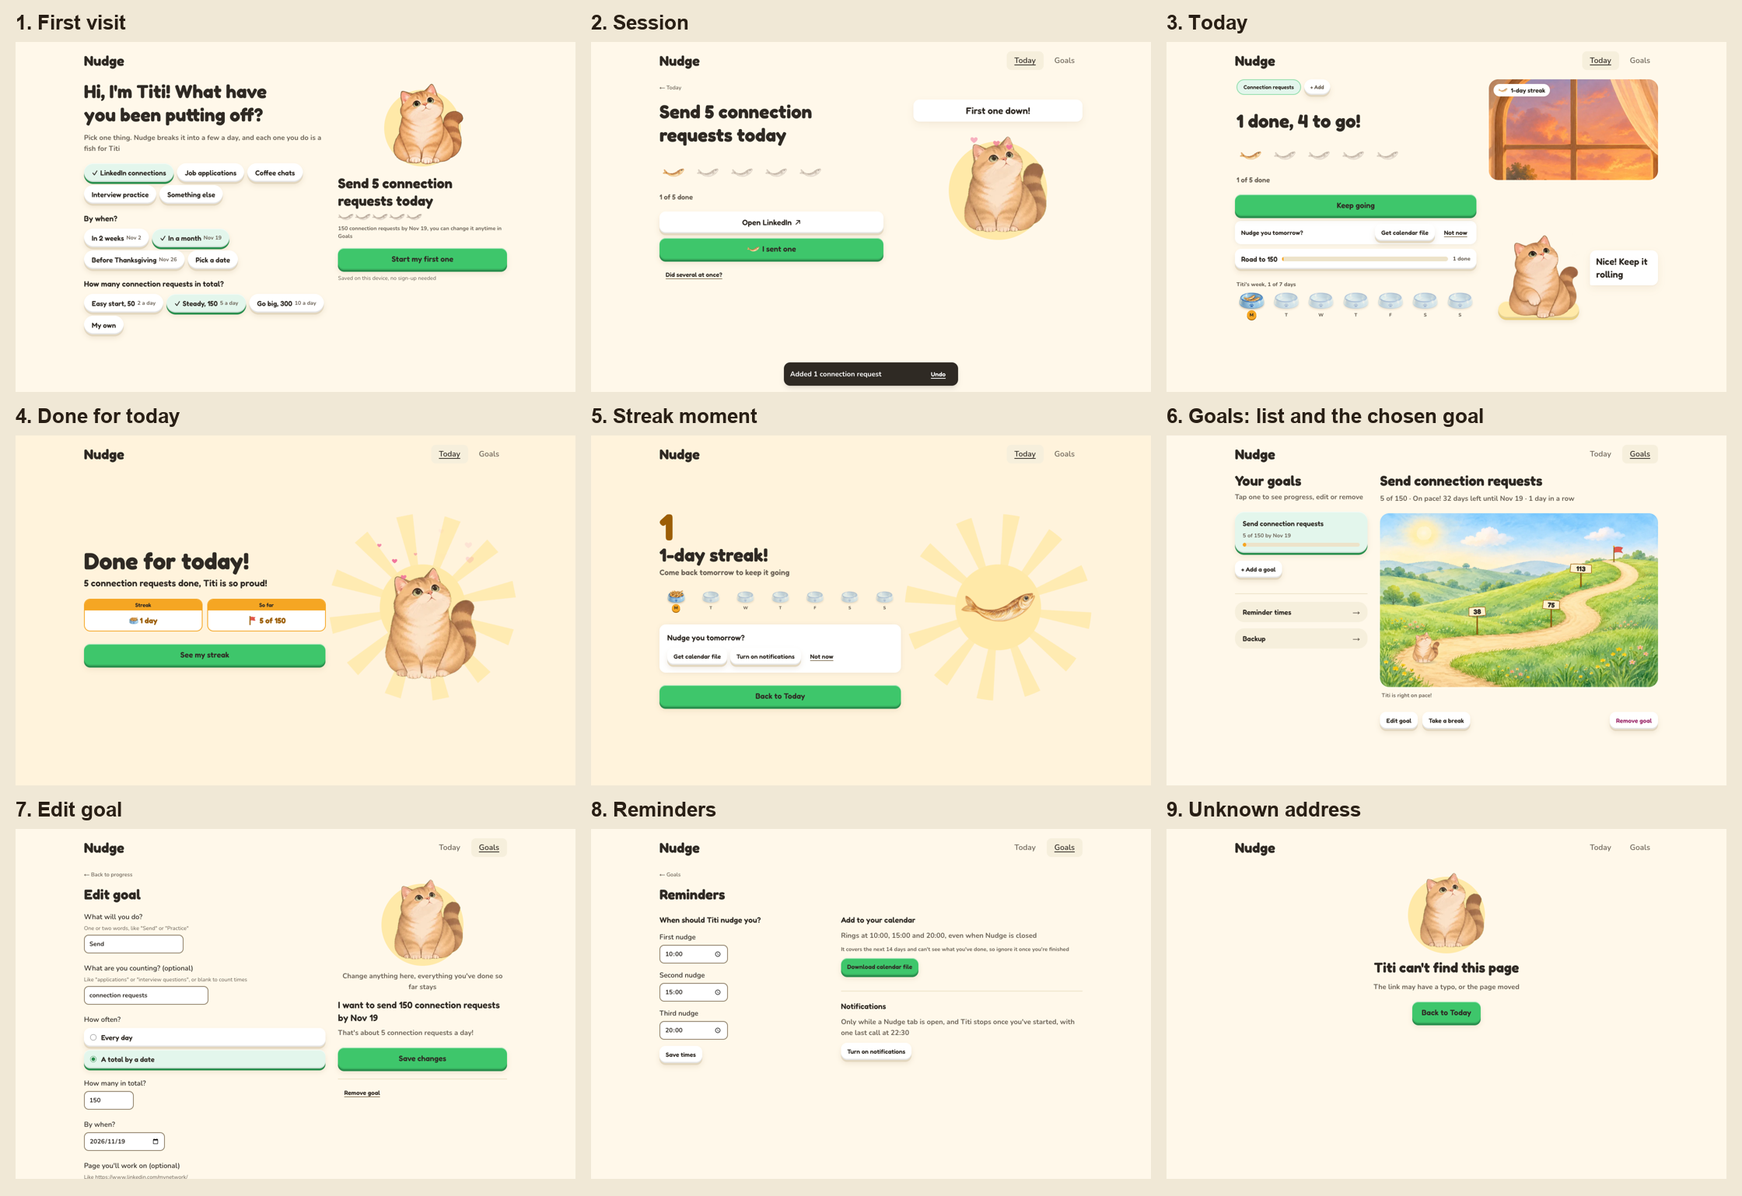
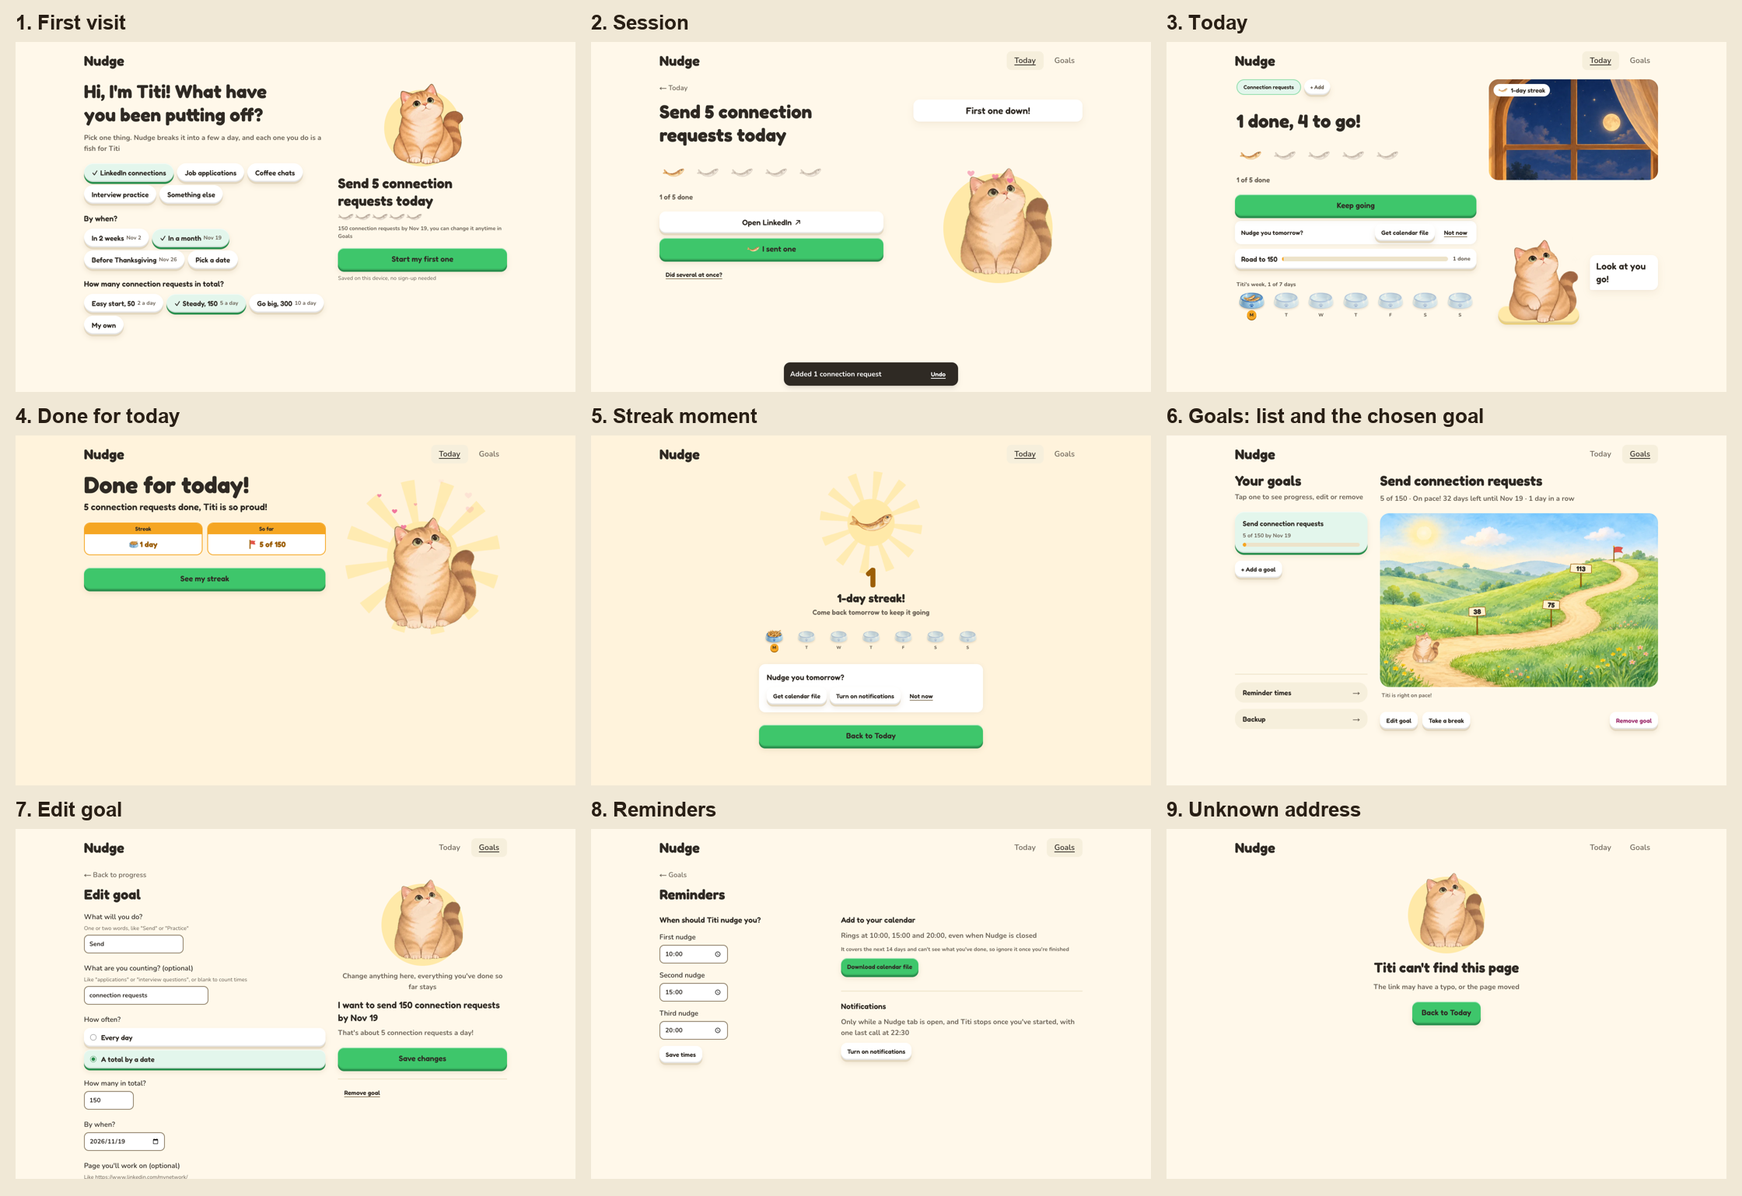
feat: Titi poses by pick on the first visit; desktop columns line up; bigger back links; streak back to one column
- First visit: Titi waves until you answer, then loafs, walks, celebrates or taps her paw for the amount picked
- Desktop session, Today and Goals: both columns share top and bottom edges
- Desktop back links 18px
- Done screen starts under the navigation, rays kept inside their column
- Streak moment is the original centred column again, top-aligned
- docs/desktop.png and docs/states.png re-shot

diff --git a/src/components/today/DoneToday.tsx b/src/components/today/DoneToday.tsx
@@ -102,13 +102,13 @@ function Badge({ stat, index }: { stat: DoneStat; index: number }) {
 }
 
 /** Slow light rays behind Titi, in the sun colour, like the burst behind a finished lesson. */
-function Rays() {
+function Rays({ className = "size-[150%]" }: { className?: string }) {
   const wedges = Array.from({ length: 12 }, (_, i) => i * 30);
   return (
     // The turning square is clipped to a circle, so its corners never widen the page on a phone
     <div
       aria-hidden="true"
-      className="absolute left-1/2 top-1/2 -z-10 size-[150%] -translate-x-1/2 -translate-y-1/2 overflow-hidden rounded-full"
+      className={`absolute left-1/2 top-1/2 -z-10 -translate-x-1/2 -translate-y-1/2 overflow-hidden rounded-full ${className}`}
     >
       <svg viewBox="-100 -100 200 200" className="rays size-full">
         {wedges.map((a) => (
@@ -215,44 +215,42 @@ function StreakMoment({
   return (
     <section
       aria-labelledby="streak-title"
-      className="relative flex flex-col items-center pt-10 text-center lg:my-auto lg:grid lg:grid-cols-12 lg:items-center lg:gap-x-8 lg:pb-16 lg:pt-0 lg:text-left"
+      className="relative flex flex-col items-center pt-10 text-center lg:mx-auto lg:w-full lg:max-w-xl"
     >
       <div aria-hidden="true" className="fixed inset-0 -z-20 bg-celebrate" />
-      {/* On a desktop the same 7/5 grid as every page: the words and the week on the left, the fish in its rays on the
-          right (user, 2026-10-19: a narrow centred column left most of the screen empty). On a phone nothing changes */}
-      <div className="relative flex size-44 items-center justify-center lg:col-span-5 lg:col-start-8 lg:row-start-1 lg:size-80 lg:justify-self-center">
+      {/* One centred column on every screen: the fish in its rays, then the number under it (user, 2026-10-19: the
+          number alone on the left of a two-column page read oddly; the space under the column is fine) */}
+      <div className="relative flex size-44 items-center justify-center">
         <Rays />
         {/* eslint-disable-next-line @next/next/no-img-element -- the fish treat, the streak's mark */}
         <img
           src="/cat/fish.png"
           alt=""
           aria-hidden="true"
-          className="pop-in w-28 lg:w-48"
+          className="pop-in w-28"
         />
       </div>
-      <div className="contents lg:col-span-7 lg:col-start-1 lg:row-start-1 lg:flex lg:flex-col lg:items-start">
-        <p
-          aria-hidden="true"
-          className="mt-4 font-display text-7xl font-bold tabular-nums text-reward-deep lg:mt-0 lg:text-8xl"
-        >
-          {shown}
-        </p>
-        <ScreenHeading
-          id="streak-title"
-          className="font-display text-3xl font-bold text-ink lg:text-5xl"
-        >
-          {days}-day streak!
-        </ScreenHeading>
-        <p className="mt-1 font-display text-lg font-semibold text-muted lg:mt-2 lg:text-xl">
-          Come back tomorrow to keep it going
-        </p>
-        <ol aria-label="This week" className="mt-8 flex w-full items-end gap-1">
-          {bowls.map((b) => (
-            <ShelfBowl key={b.date} bowl={b} pop={b.today} />
-          ))}
-        </ol>
-        {children}
-      </div>
+      <p
+        aria-hidden="true"
+        className="mt-4 font-display text-7xl font-bold tabular-nums text-reward-deep"
+      >
+        {shown}
+      </p>
+      <ScreenHeading
+        id="streak-title"
+        className="font-display text-3xl font-bold text-ink"
+      >
+        {days}-day streak!
+      </ScreenHeading>
+      <p className="mt-1 font-display text-lg font-semibold text-muted">
+        Come back tomorrow to keep it going
+      </p>
+      <ol aria-label="This week" className="mt-8 flex w-full items-end gap-1">
+        {bowls.map((b) => (
+          <ShelfBowl key={b.date} bowl={b} pop={b.today} />
+        ))}
+      </ol>
+      {children}
     </section>
   );
 }
@@ -293,14 +291,15 @@ export function DoneToday({
   return (
     <section
       aria-labelledby="done-title"
-      className="relative flex flex-col items-center pt-2 text-center lg:my-auto lg:grid lg:grid-cols-12 lg:items-center lg:gap-x-8 lg:pb-16 lg:pt-0 lg:text-left"
+      className="relative flex flex-col items-center pt-2 text-center lg:grid lg:grid-cols-12 lg:items-center lg:gap-x-8 lg:pb-16 lg:pt-0 lg:text-left"
     >
       <div aria-hidden="true" className="fixed inset-0 -z-20 bg-celebrate" />
       <Confetti />
       {/* On a desktop: Titi jumping in her rays on the right five columns, what you did and the way on on the left
-          seven (user, 2026-10-19). On a phone nothing changes */}
-      <div className="relative mt-4 w-52 lg:col-span-5 lg:col-start-8 lg:row-start-1 lg:mt-0 lg:w-80 lg:justify-self-center">
-        <Rays />
+          seven (user, 2026-10-19), both starting right under the navigation like every page; the rays stay inside a
+          square as wide as their column, so they never reach the navigation. On a phone nothing changes */}
+      <div className="relative mt-4 w-52 lg:col-span-5 lg:col-start-8 lg:row-start-1 lg:mt-0 lg:flex lg:aspect-square lg:w-full lg:items-center lg:justify-center lg:self-start">
+        <Rays className="size-[150%] lg:size-[92%]" />
         <CatArt
           mood="celebrate"
           effect="party"
@@ -308,7 +307,7 @@ export function DoneToday({
           className="pop-in w-52 lg:w-80"
         />
       </div>
-      <div className="contents lg:col-span-7 lg:col-start-1 lg:row-start-1 lg:flex lg:flex-col lg:items-start">
+      <div className="contents lg:col-span-7 lg:col-start-1 lg:row-start-1 lg:flex lg:flex-col lg:items-start lg:self-start">
         <ScreenHeading
           id="done-title"
           className="mt-4 font-display text-4xl font-bold text-ink lg:mt-0 lg:text-6xl"

diff --git a/src/components/onboarding/GoalWizard.tsx b/src/components/onboarding/GoalWizard.tsx
@@ -1,7 +1,7 @@
 "use client";
 
 import { useEffect, useRef, useState, type ReactNode } from "react";
-import { CatArt } from "@/components/today/CatArt";
+import { CatArt, type CatMood } from "@/components/today/CatArt";
 import { Button } from "@/components/ui/Button";
 import { Field, TextInput } from "@/components/ui/Field";
 import { ScreenHeading } from "@/components/ui/ScreenHeading";
@@ -61,6 +61,12 @@ function Reveal({ children }: { children: ReactNode }) {
 }
 /** How many of today's fish the first screen draws before it says "+N". */
 const FISH_PREVIEW = 8;
+const TIER_POSE: Record<string, CatMood> = {
+  "0": "loaf",
+  "1": "walk",
+  "2": "celebrate",
+  own: "paw-tap",
+};
 const OFTEN = [
   { value: "daily", label: "Every day" },
   { value: "by-date", label: "A total by a date" },
@@ -69,7 +75,7 @@ const OFTEN = [
 /** Titi's question. The first visit does not move focus, so it starts at the skip link as usual. On a desktop Titi stands
  *  in the right column above today's number (user, 2026-10-19: the right side was too short), so here the question is
  *  the page's plain heading. */
-function Hello({ firstVisit }: { firstVisit: boolean }) {
+function Hello({ firstVisit, pose }: { firstVisit: boolean; pose: CatMood }) {
   const heading =
     "font-display text-xl font-semibold leading-snug text-ink lg:text-5xl lg:font-bold lg:leading-tight lg:[text-wrap:balance]";
   const question = firstVisit
@@ -79,7 +85,8 @@ function Hello({ firstVisit }: { firstVisit: boolean }) {
     <div className="flex items-end gap-2">
       <div className="shrink-0 lg:hidden">
         <CatArt
-          mood={firstVisit ? "wave" : "idle"}
+          key={pose}
+          mood={pose}
           className={firstVisit ? "w-36" : "w-24"}
         />
       </div>
@@ -105,10 +112,12 @@ function Result({
   r,
   firstVisit,
   onStart,
+  pose,
 }: {
   r: Resolved;
   firstVisit: boolean;
   onStart: () => void;
+  pose: CatMood;
 }) {
   const bar = useRef<HTMLDivElement>(null);
   useEffect(() => {
@@ -138,7 +147,7 @@ function Result({
     >
       <div className="mx-auto flex max-w-xl flex-col gap-2 lg:gap-3">
         <div className="hidden lg:mb-2 lg:flex lg:justify-center">
-          <CatArt mood={firstVisit ? "wave" : "idle"} className="w-56" />
+          <CatArt key={pose} mood={pose} className="w-56" />
         </div>
         <p
           aria-live="polite"
@@ -371,7 +380,19 @@ export function GoalWizard({ firstVisit = false, onCancel, onStarted }: Props) {
   const [tries, setTries] = useState(0);
   const r = resolveSetup(picks, today);
   const errors = tries > 0 ? r.errors : {};
-  const set: Set = (p) => setPicks((prev) => ({ ...prev, ...p }));
+  // Titi waves until you answer, then takes a pose for how much you picked: a loaf for an easy start, walking for
+  // steady, jumping for going big, a tap of the paw for a number of your own (user, 2026-10-19: keep Titi on the first
+  // screen, in different poses)
+  const [touched, setTouched] = useState(false);
+  const set: Set = (p) => {
+    setTouched(true);
+    setPicks((prev) => ({ ...prev, ...p }));
+  };
+  const pose: CatMood = !touched
+    ? firstVisit
+      ? "wave"
+      : "idle"
+    : (TIER_POSE[String(picks.tier)] ?? "idle");
   const firstError = r.errors.what
     ? "setup-what"
     : r.errors.date
@@ -405,12 +426,12 @@ export function GoalWizard({ firstVisit = false, onCancel, onStarted }: Props) {
           <button
             type="button"
             onClick={onCancel}
-            className="-ml-1 min-h-11 self-start px-1 text-sm font-semibold text-muted underline-offset-4 hover:underline focus-visible:outline-3 focus-visible:outline-focus lg:-mb-4"
+            className="-ml-1 min-h-11 self-start px-1 text-sm font-semibold text-muted underline-offset-4 hover:underline focus-visible:outline-3 focus-visible:outline-focus lg:-mb-4 lg:text-lg"
           >
             ← Goals
           </button>
         )}
-        <Hello firstVisit={firstVisit} />
+        <Hello firstVisit={firstVisit} pose={pose} />
         {/* What Nudge does, said once on the first screen (first-run check: "nothing on the first screen says what Nudge
             does") */}
         {firstVisit && (
@@ -442,7 +463,7 @@ export function GoalWizard({ firstVisit = false, onCancel, onStarted }: Props) {
         )}
         <HowMany picks={picks} r={r} set={set} error={errors.amount} />
       </div>
-      <Result r={r} firstVisit={firstVisit} onStart={start} />
+      <Result r={r} firstVisit={firstVisit} onStart={start} pose={pose} />
     </section>
   );
 }

diff --git a/src/components/today/Session.tsx b/src/components/today/Session.tsx
@@ -73,7 +73,7 @@ function SessionBar() {
   return (
     <Link
       href="/"
-      className="inline-flex min-h-11 self-start items-center text-sm font-semibold text-muted underline-offset-4 hover:underline focus-visible:outline-3 focus-visible:outline-focus"
+      className="inline-flex min-h-11 self-start items-center text-sm font-semibold text-muted underline-offset-4 hover:underline focus-visible:outline-3 focus-visible:outline-focus lg:text-lg"
     >
       ← Today
     </Link>
@@ -231,8 +231,8 @@ export function Session({
     >
       <SessionBar />
       {/* On a desktop the same grid as Today (task first): the task, the fish and the buttons on the left seven columns,
-          Titi and her bubble on the right five. The session has little on it, so the two columns sit together in the
-          middle of the space under the back link instead of leaving its lower half empty (user, 2026-10-19) */}
+          Titi and her bubble on the right five. The right column is as tall as the left, her bubble level with the
+          heading and her feet level with the last button (user, 2026-10-19: the two sides must line up) */}
       <div className="contents lg:mt-2 lg:grid lg:grid-cols-12 lg:items-start lg:gap-x-8">
         <ScreenHeading
           id={`${id}-title`}
@@ -240,13 +240,13 @@ export function Session({
         >
           {headline(goal.verb, total, goal.unit)} today
         </ScreenHeading>
-        <div className="flex flex-col lg:col-span-5 lg:col-start-8 lg:row-span-2 lg:row-start-1">
-          <div className="mt-4 flex items-end gap-2 lg:mt-0 lg:flex-col-reverse lg:items-center lg:gap-4">
+        <div className="flex flex-col lg:col-span-5 lg:col-start-8 lg:row-span-2 lg:row-start-1 lg:self-stretch">
+          <div className="mt-4 flex items-end gap-2 lg:mt-0 lg:h-full lg:flex-col-reverse lg:items-center lg:justify-between lg:gap-4">
             <CatArt
               key={flight?.key ?? 0}
               mood="idle"
               effect={flight ? "hop" : undefined}
-              className="w-36 shrink-0 lg:w-72"
+              className="w-36 shrink-0 lg:w-80"
             />
             <div className="flat mb-8 rounded-2xl rounded-bl-sm bg-surface px-4 py-3 lg:mb-0 lg:self-stretch lg:rounded-bl-2xl lg:text-center">
               <p

diff --git a/src/components/goals/GoalsScreen.tsx b/src/components/goals/GoalsScreen.tsx
@@ -99,9 +99,10 @@ export function GoalsScreen({ selected, fromToday = false }: Props) {
     </>
   );
   // Settings, apart from the goals and under them: when to nudge, and the backup, as two rows of one kind (user,
-  // 2026-10-19: a link beside a big card did not read as one set). On a desktop they close the list column.
+  // 2026-10-19: a link beside a big card did not read as one set). On a desktop they sit at the foot of the list column, level
+  // with the goal's own actions at the foot of the right one (user, 2026-10-19: the two sides must line up).
   const settings = (
-    <div className="mt-10 flex flex-col gap-2 border-t-2 border-wash-strong pt-5">
+    <div className="mt-10 flex flex-col gap-2 border-t-2 border-wash-strong pt-5 lg:mt-auto">
       <Link
         href="/reminders"
         className="flex items-center justify-between rounded-3xl bg-wash px-5 py-3 font-display text-lg font-semibold text-ink hover:bg-wash-strong focus-visible:outline-3 focus-visible:outline-focus"
@@ -134,11 +135,11 @@ export function GoalsScreen({ selected, fromToday = false }: Props) {
     );
   return (
     <div className="grid grid-cols-12 items-start gap-x-8">
-      <div className="col-span-4 flex flex-col">
+      <div className="col-span-4 flex flex-col self-stretch [&>a:last-of-type]:mb-10">
         {list}
         {settings}
       </div>
-      <div className="col-span-8 col-start-5 flex flex-col">
+      <div className="col-span-8 col-start-5 flex flex-col self-stretch">
         <ProgressScreen id={chosen.id} fromToday={fromToday} embedded />
       </div>
       {toast}

diff --git a/src/components/today/Room.tsx b/src/components/today/Room.tsx
@@ -98,7 +98,7 @@ export function Room({ bowls, cat, corner, say = null, children }: Props) {
         <Window time={time} corner={corner} className="lg:aspect-[1040/620]" />
         {/* Coming back, Titi says hello in a bubble beside her, so the greeting is hers and not one more grey line
             (user, 2026-10-19: the welcome was too quiet) */}
-        <div className={`flex items-end justify-center lg:mt-auto ${say ? "gap-1" : ""}`}>
+        <div className={`flex items-end justify-center lg:-mb-3 lg:mt-auto ${say ? "gap-1" : ""}`}>
           <div className={`relative flex flex-col items-center ${say ? "w-44 shrink-0 short:w-28 lg:w-64" : "mx-auto w-52 short:w-32 lg:w-72"}`}>
             <span aria-hidden="true" className={`clay absolute bottom-1 left-1/2 -translate-x-1/2 rounded-full bg-sun [--lip:#e9cf7e] ${say ? "h-10 w-40 short:h-6 short:w-24 lg:bottom-3 lg:h-11 lg:w-52" : "h-10 w-48 short:h-6 short:w-28 lg:bottom-3 lg:h-12 lg:w-60"}`} />
             <CatArt key={cat.key} mood={cat.mood} effect={cat.effect} sun={false} className={`relative ${say ? "w-40 short:w-20 lg:w-60" : "w-40 short:w-20 lg:w-56"}`} />

diff --git a/src/components/ui/PageHeader.tsx b/src/components/ui/PageHeader.tsx
@@ -16,7 +16,7 @@ export function PageHeader({ title, intro, back = "/", backLabel = "← Back to 
   const Heading = level;
   return (
     <div className="flex flex-col gap-3 pt-4 lg:gap-2 lg:pt-0">
-      {back && <Link href={back} className="self-start text-sm font-semibold text-muted underline-offset-4 hover:underline focus-visible:outline-3 focus-visible:outline-focus lg:inline-flex lg:min-h-11 lg:items-center">
+      {back && <Link href={back} className="self-start text-sm font-semibold text-muted underline-offset-4 hover:underline focus-visible:outline-3 focus-visible:outline-focus lg:inline-flex lg:min-h-11 lg:items-center lg:text-lg">
         {backLabel}
       </Link>}
       <Heading className="font-display text-3xl font-bold text-ink lg:text-4xl">{title}</Heading>

diff --git a/src/components/progress/ProgressScreen.tsx b/src/components/progress/ProgressScreen.tsx
@@ -164,7 +164,7 @@ export function ProgressScreen({
             />
           )}
         </div>
-        <div className="mt-8">
+        <div className="mt-8 lg:mt-auto lg:pt-8">
           <GoalActions goal={goal} today={today} inline />
         </div>
       </>

diff --git a/log.md b/log.md
@@ -114,3 +114,6 @@
 | 2026-10-19 | 本人经审查会话决定：网页版任务页一律贴顶，离导航 32px，返回链接与标题每页在同一位置；完成页与连续天数页保持居中；先出效果图，确认后改代码并提交，推送由本人直接确认 | 原来不满一屏的页面上下居中，导航到内容的距离随屏幕高度和内容多少变化（1440×900 下 57 至 196px）。改为：主区域在网页上顶部留 32px，不再居中；有返回链接的页面（记录页、编辑、提醒、新建目标）返回链接在导航下 32px、标题在 84px；没有返回链接的页面第一行在 32px（Goals、进度、首访的标题在 32px，Today 的目标标签在 32px、标题在 108px）；完成页与连续天数页仍居中；首访的导航高度由 92 改为与其他页面一致的 96（Logo 最小高度与导航链接相同）。1440×900 与 1280×720 测量一致，手机 5 个页面与改前逐像素一致。网页版总图 docs/desktop.png 重拍，README 一句同步。164 个测试通过，三条流程 0 报错，axe 在 390 与 1440 宽均 0 违规 |
 | 2026-10-19 | 本人圈出网页版首访：Logo 和标题之间留得太大 | 原因：导航下方留 24px，页面再往下 32px，合计 56px（手机上约 20px）。改为导航下方 8px、页面顶部 16px，Logo 到第一行 24px；各页第一行都在 96px（1440×900），有返回链接的页面标题在 148px，首访与 Goals 的标题在 96px，Today 的标题在 172px，仍然每页对齐；手机不变。网页版总图重拍。164 个测试通过，三条流程 0 报错，axe 在 1440 宽 0 违规 |
 | 2026-10-19 | 本人：网页版首访的欢迎标题可以再大一点，层级更明显 | 「Hi, I'm Titi! What have you been putting off?」在网页上由 36px 放大到 48px（与 Today 的任务句同级），并平衡折行为两行；首访的层级变为：标题 48、右栏今天的数字 36、问题 20、说明句 18。手机上仍是 Titi 气泡里的 20px，不变。网页版总图重拍，axe 在 1440 宽 0 违规 |
+| 2026-10-19 | 本人：首访不要放 Today 预览，保留 Titi，用不同姿势；2、3、5、6 页左右两栏上下没有对齐（看过效果图后说「好」） | ①首访的 Titi 随所选数量换姿势：未作答时招手（回访为站立），选「Easy start」趴着，「Steady」走路，「Go big」庆祝，自己定数时伸爪；手机与网页同样生效。②两栏上下对齐：记录页右栏与左栏等高，气泡与标题齐平、Titi 落在最后一个按钮的高度；Today 的 Titi 落在一周碗架底边；Goals 左栏的提醒与备份贴到栏底，与右栏目标操作齐平。手机不变 |
+| 2026-10-19 | 本人在效果图上圈出：「← Today」太小；连续天数页白色卡片和太阳光圈连在一起 | ①网页上所有返回链接（← Today、← Goals、← Back to progress、改目标页的 ← Goals）由 14px 放大到 18px，可点高度 44px，手机不变。②光圈直径改为跟随所在栏宽，不再按栏高撑开，与左栏卡片间距 49px |
+| 2026-10-19 | 本人圈出连续天数页导航下方空隙太大；看过两栏版后又说：大数字单独放在左上角太奇怪，回到最初的样子，不纠结页面下方空 | ①连续天数页在网页上恢复为最初的单栏居中（鱼与光圈在上，数字、「1-day streak!」、一周碗、提醒卡与按钮依次居中），宽 576px，贴顶，不再上下居中；手机不变。②「完成」页同样存在导航下空隙，改为贴顶（标题在导航下 16px），保留两栏；光圈收进与栏同宽的正方形内，不再顶到导航。网页版与手机状态总图重拍。164 个测试通过，三条流程 0 报错，axe 在 390 与 1440 宽均 0 违规 |
